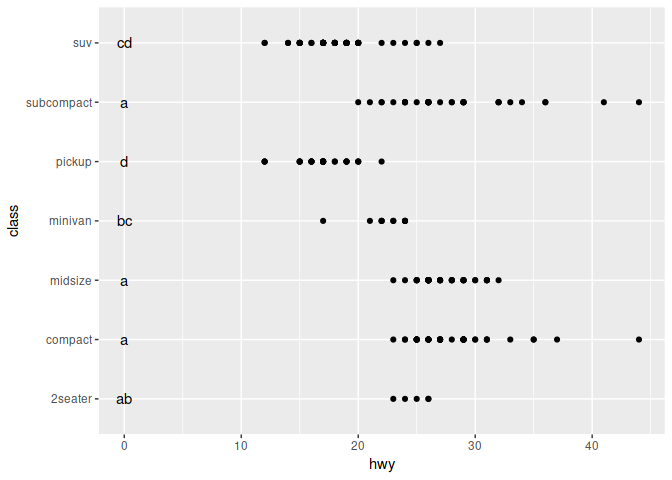
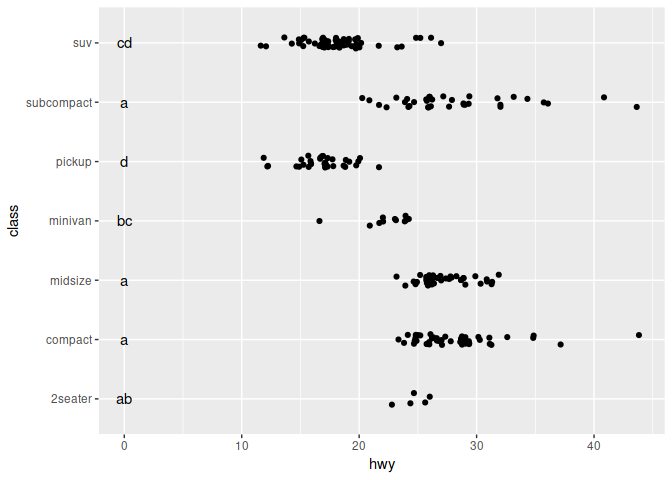
fix docs and examples

diff --git a/README.md b/README.md
@@ -11,9 +11,11 @@ experimental](https://img.shields.io/badge/lifecycle-experimental-orange.svg)](h
 status](https://www.r-pkg.org/badges/version/tukeygrps)](https://cran.r-project.org/package=tukeygrps)
 <!-- badges: end -->
 
-Tukeygrps provides a simple helper function for the letter annotation of
+Tukeygrps provides simple wrapper functions for the annotation of
 (gg)plots according to statistical differences between groups determined
-by a parametric Tukey-HSD test or a non-parametric Kruskal-wallis test.
+by a parametric Tukey-HSD test or a non-parametric Kruskal-Wallis test.
+The underlying statistical functions are called from the *agricolae*
+package.
 
 ## Installation
 
@@ -26,7 +28,7 @@ install_github("leonardblaschek/tukeygrps")
 
 ## Examples
 
-### Parametric comparisons
+### Parametric multiple comparisons
 
 The distributions and sample numbers in these example datasets don’t
 always allow for the use of a parametric test such as the Tukey-HSD.
@@ -35,7 +37,7 @@ Before you use this function, make sure that your observations are:
   - **normally** distributed
   - **homoscedastic**
   - **independent** within and between groups
-  - **equal** sample sizes
+  - **equal** in sample size
 
 If they are **not**, scroll down to the *non-parametric comparisons*.
 
@@ -46,19 +48,7 @@ are no additional grouping variables.
 ``` r
 library(tukeygrps)
 library(tidyverse)
-#> Registered S3 methods overwritten by 'ggplot2':
-#>   method         from 
-#>   [.quosures     rlang
-#>   c.quosures     rlang
-#>   print.quosures rlang
-#> ── Attaching packages ───────────────────────────────────────────────────────────────────────────────────────── tidyverse 1.2.1 ──
-#> ✔ ggplot2 3.1.1     ✔ purrr   0.3.2
-#> ✔ tibble  2.1.1     ✔ dplyr   0.8.1
-#> ✔ tidyr   0.8.3     ✔ stringr 1.4.0
-#> ✔ readr   1.3.1     ✔ forcats 0.4.0
-#> ── Conflicts ──────────────────────────────────────────────────────────────────────────────────────────── tidyverse_conflicts() ──
-#> ✖ dplyr::filter() masks stats::filter()
-#> ✖ dplyr::lag()    masks stats::lag()
+
 data(mpg)
 head(mpg)
 #> # A tibble: 6 x 11
@@ -83,9 +73,10 @@ head(tukey_letters)
 #> suv          0     cd        suv
 
 ggplot() +
-  geom_point(data = mpg, 
+  geom_jitter(data = mpg, 
              aes(x = class,
-                 y = hwy)) +
+                 y = hwy),
+             width = 0.1) +
   geom_text(data = tukey_letters,
             aes(x = class,
                 y = hwy,
@@ -131,20 +122,29 @@ head(tukey_letters)
 #> 6 Very Good D     -1000 c      VS1
 
 ggplot() +
+  geom_jitter(data = diamonds, 
+             aes(x = clarity,
+                 y = price),
+             size = 1,
+             width = 0.1,
+             alpha = 0.25) +
   geom_boxplot(data = diamonds, 
              aes(x = clarity,
-                 y = price)) +
+                 y = price),
+             outlier.alpha = 0,
+             fill = rgb(1, 1, 1, 0.5)) +
   geom_text(data = tukey_letters,
             aes(x = clarity,
                 y = price,
-                label = groups)) +
+                label = groups),
+            size = 3) +
   facet_grid(cut ~ color) +
   coord_flip()
 ```
 
 <img src="man/figures/README-example-1.png" width="100%" />
 
-### Non-parametric comparisons
+### Non-parametric multiple comparisons
 
 In case the above requirements for parametric tests are not met, we can
 fall back to the non-parametric Kruskal–Wallis test with *p*-value
@@ -153,37 +153,53 @@ adjustment for multiple comparisons.
 ``` r
 library(tukeygrps)
 library(tidyverse)
-data(mpg)
-head(mpg)
-#> # A tibble: 6 x 11
-#>   manufacturer model displ  year   cyl trans  drv     cty   hwy fl    class
-#>   <chr>        <chr> <dbl> <int> <int> <chr>  <chr> <int> <int> <chr> <chr>
-#> 1 audi         a4      1.8  1999     4 auto(… f        18    29 p     comp…
-#> 2 audi         a4      1.8  1999     4 manua… f        21    29 p     comp…
-#> 3 audi         a4      2    2008     4 manua… f        20    31 p     comp…
-#> 4 audi         a4      2    2008     4 auto(… f        21    30 p     comp…
-#> 5 audi         a4      2.8  1999     6 auto(… f        16    26 p     comp…
-#> 6 audi         a4      2.8  1999     6 manua… f        18    26 p     comp…
 
-kruskal_letters <- kruskal_groups(mpg, hwy, class, 0, 0.001, "holm")
+data(diamonds)
+diamonds <- diamonds %>% 
+  filter(cut %in% c("Ideal", "Premium", "Very Good") & color %in% c("D", "E", "F"))
+head(diamonds)
+#> # A tibble: 6 x 10
+#>   carat cut       color clarity depth table price     x     y     z
+#>   <dbl> <ord>     <ord> <ord>   <dbl> <dbl> <int> <dbl> <dbl> <dbl>
+#> 1  0.23 Ideal     E     SI2      61.5    55   326  3.95  3.98  2.43
+#> 2  0.21 Premium   E     SI1      59.8    61   326  3.89  3.84  2.31
+#> 3  0.22 Premium   F     SI1      60.4    61   342  3.88  3.84  2.33
+#> 4  0.2  Premium   E     SI2      60.2    62   345  3.79  3.75  2.27
+#> 5  0.32 Premium   E     I1       60.9    58   345  4.38  4.42  2.68
+#> 6  0.23 Very Good E     VS2      63.8    55   352  3.85  3.92  2.48
+
+kruskal_letters <- kruskal_groups(diamonds, price, clarity, -1000, 0.05, "holm", cut, color)
 
 head(kruskal_letters)
-#>                 mean groups      class hwy
-#> compact    175.06383      a    compact   0
-#> midsize    168.28049      a    midsize   0
-#> subcompact 165.77143      a subcompact   0
-#> 2seater    127.80000     ab    2seater   0
-#> minivan     97.04545     bc    minivan   0
-#> suv         56.43548     cd        suv   0
+#> # A tibble: 6 x 6
+#> # Groups:   cut, color [1]
+#>   cut       color  mean groups clarity price
+#>   <ord>     <ord> <dbl> <chr>  <chr>   <dbl>
+#> 1 Very Good D     1243. a      IF      -1000
+#> 2 Very Good D      895. b      SI2     -1000
+#> 3 Very Good D      794. bc     I1      -1000
+#> 4 Very Good D      765. c      SI1     -1000
+#> 5 Very Good D      731. c      VS2     -1000
+#> 6 Very Good D      686. c      VS1     -1000
 
 ggplot() +
-  geom_point(data = mpg, 
-             aes(x = class,
-                 y = hwy)) +
+  geom_jitter(data = diamonds, 
+             aes(x = clarity,
+                 y = price),
+             size = 1,
+             width = 0.1,
+             alpha = 0.25) +
+  geom_boxplot(data = diamonds, 
+             aes(x = clarity,
+                 y = price),
+             outlier.alpha = 0,
+             fill = rgb(1, 1, 1, 0.5)) +
   geom_text(data = kruskal_letters,
-            aes(x = class,
-                y = hwy,
-                label = groups)) +
+            aes(x = clarity,
+                y = price,
+                label = groups),
+            size = 3) +
+  facet_grid(cut ~ color) +
   coord_flip()
 ```
 
